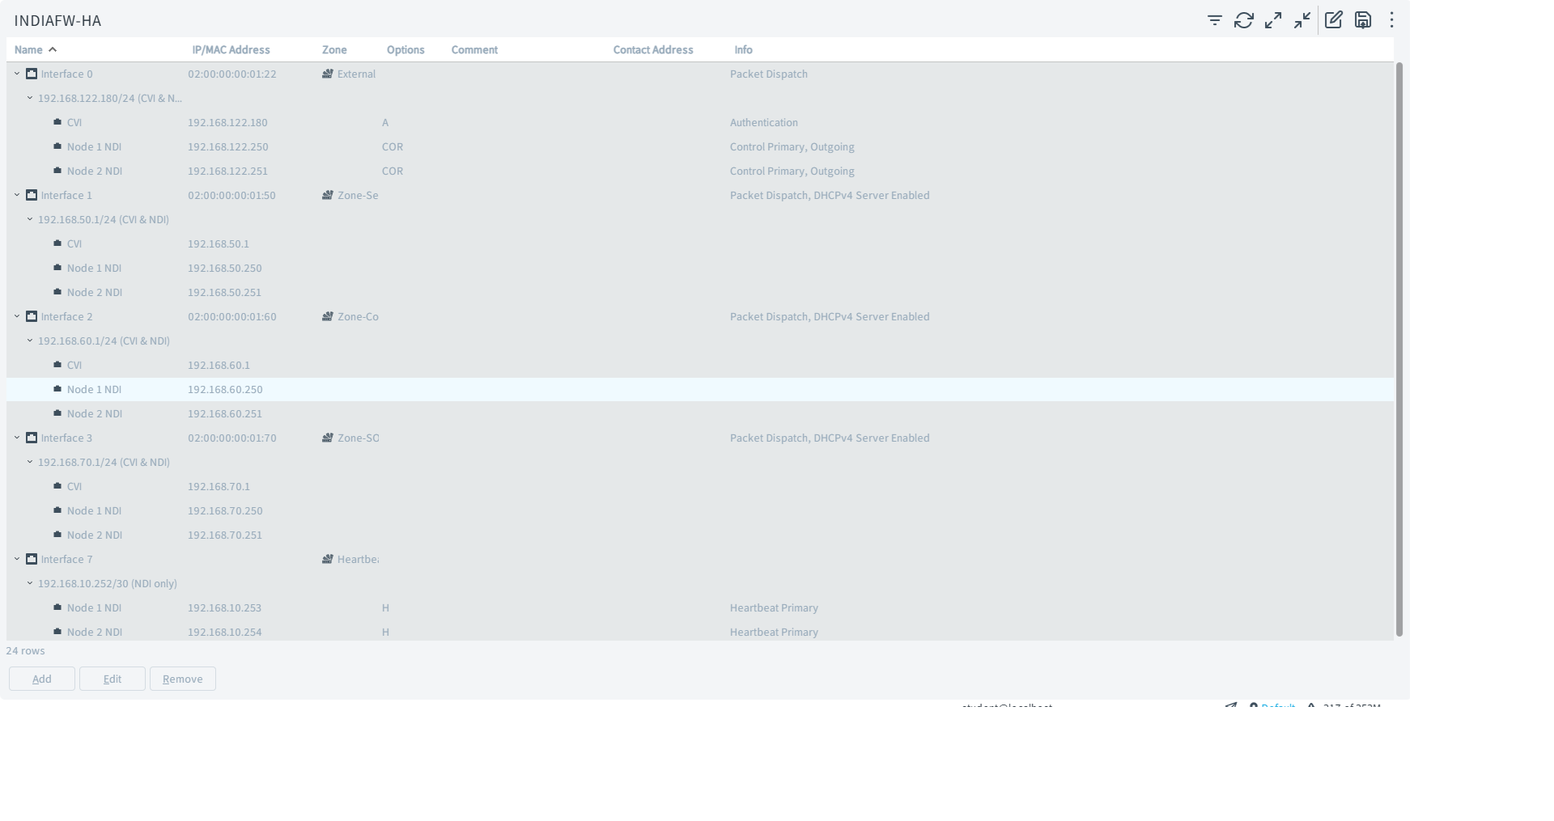
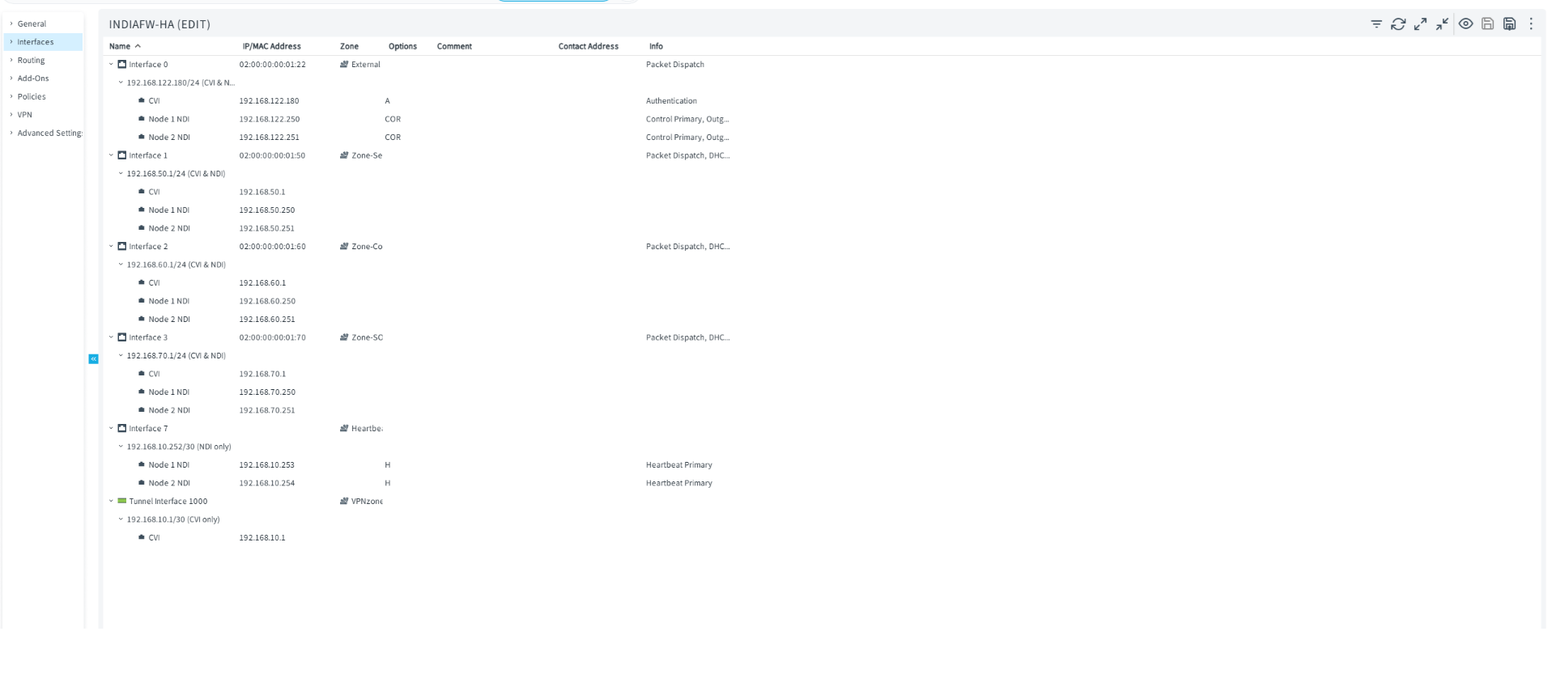
docs: USA branch migration to Forcepoint NGFW with VPN hardening & enhanced documentation
- Migrate USA branch firewall from FortiGate to standalone Forcepoint NGFW
- Implement native NGFW-to-NGFW route-based VPN (Suite-B-GCM-128 profile)
- Harden VPN configuration: PFS enabled, RSA cert auth, defense-in-depth policies
- Add comprehensive VPN validation: profile screenshots, gateway status, routing table, policy rules
- Document hardening changes: before/after comparison (IKEv1→IKEv2, PSK→cert auth, NAT fix)
- Reorganize repository structure: archive/fortigate-v1 for legacy config, usa-ngfw-vpn for screenshots
- Integrate USA NGFW screenshots into findings document with detailed explanations
- Add new HA cluster routing screenshot showing interface hierarchy
- Update README with current topology, tools, and testing methodology
- Preserve FortiGate v1 config as reference in archive (v1 → v2 migration documented)

New documentation:
- findings-usa-ngfw-migration.md: Full VPN design, hardening rationale, known limitations, lessons learned
- Enhanced README: Lab evolution phases, VPN hardening summary, repository structure

Screenshots added:
- 10 USA NGFW VPN configuration screenshots (profiles, gateways, routing, policies)
- 1 new HA cluster routing configuration screenshot
- Total: 15 USA-side screenshots + 4 HA-cluster screenshots organized in appropriate directories

diff --git a/README.md b/README.md
@@ -1,10 +1,19 @@
-# Enterprise Security Lab — Multi-Site Network with Layered Defense (GNS3)
+# Enterprise Security Lab — Multi-Site Network with Layered Defense (GNS3).
 
 ## Overview
 
 This lab simulates a two-site enterprise network (India HQ and USA branch) built in GNS3, designed to test and validate layered security controls across network, web, email, and data-loss-prevention layers. The goal was to model a realistic corporate environment — complete with a segmented internal network, dedicated security services zone, and a SOC — then actively test the effectiveness of those controls using reconnaissance and attack simulation techniques.
 
 **Why this lab:** Most home labs stop at "I set up a firewall." This one goes further — combining perimeter defense with true **HA clustering**, endpoint infrastructure, threat detection (XDR), and site-to-site connectivity, then validating the setup with real scans, forced-failover tests, and rule testing rather than just assuming it works.
+
+## Lab Evolution
+
+This lab is built iteratively, with each phase documented rather than overwritten:
+
+- **v1 — Initial build:** India HQ Forcepoint NGFW + USA branch FortiGate, connected via a cross-vendor IPsec site-to-site VPN.
+- **v2 — HA clustering:** India HQ NGFW upgraded to an Active-Standby cluster (NGFW-1/NGFW-2), validated with a forced-failover test. See [`notes/findings-ngfw-ha-cluster.md`](notes/findings-ngfw-ha-cluster.md).
+- **v3 — DLP-to-SIEM pipeline:** Forcepoint DLP incident/audit/system logs forwarded to Wazuh via custom CEF decoders and rules, with a live dashboard. See [`notes/forcepoint-dlp-wazuh-integration.md`](notes/forcepoint-dlp-wazuh-integration.md).
+- **v4 — Branch firewall migration (current):** The USA branch FortiGate was replaced with a second, standalone Forcepoint NGFW after the FortiGate evaluation license expired — used as an opportunity to move to a single-vendor, native NGFW-to-NGFW route-based VPN managed by the same SMC as the India cluster, rather than a cross-vendor IPsec link. Includes a full VPN hardening pass (PFS, certificate-based auth, scoped least-privilege access rules, defense-in-depth policy on both firewalls). See [`notes/findings-usa-ngfw-migration.md`](notes/findings-usa-ngfw-migration.md). The original FortiGate configuration is preserved, not deleted, at [`configs/USA-Branch/archive/fortigate-v1/`](configs/USA-Branch/archive/fortigate-v1/).
 
 ## Topology
 
@@ -16,7 +25,7 @@ This lab simulates a two-site enterprise network (India HQ and USA branch) built
   - Forcepoint Email Security Gateway
   - Forcepoint DLP — FSM + DLP Manager, DLP2, Analytics, Protector, FSM-SQL
 - **Corp-LAN Subnet** (`192.168.60.0/24`)
-  - Windows Server (AD, DNS, GPO)
+  - Windows Server (AD, DNS, GPO) — also hosts HMailServer
   - Windows 10 / Windows 11 client PCs, plus a non-domain test PC (negative-control testing)
   - TrueNAS (shared storage)
 - **SOC Subnet** (`192.168.70.0/24`)
@@ -25,9 +34,9 @@ This lab simulates a two-site enterprise network (India HQ and USA branch) built
 
 **USA (Branch Office)**
 
-- FortiGate firewall (USAFW), WAN `192.168.123.231`, via AT&T Fiber ISP
-- Site-to-Site VPN (IPSec) connecting the USA branch to India HQ, tunnel subnet `192.168.150.0/24`
-- SalesPC-USA endpoint
+- **Forcepoint NGFW (standalone)** — `USA_NGFW`, managed by the same SMC instance as the India HA cluster. WAN `192.168.123.180/24` (AT&T Fiber ISP), LAN `192.168.150.1/24`. Not clustered — a single branch sales endpoint doesn't justify HA complexity, unlike HQ.
+- **Site-to-Site VPN** — native Forcepoint NGFW-to-NGFW, route-based (SD-WAN), profile `Suite-B-GCM-128`: IKEv2, AES-GCM-128, DH Group 19, PFS enabled, RSA certificate authentication, always-on tunnel. Firewall policy on both ends is scoped and direction-aware rather than a shared ANY/ANY rule — see [`notes/findings-usa-ngfw-migration.md`](notes/findings-usa-ngfw-migration.md) for the full design and hardening writeup.
+- **SalesPC-USA** endpoint
 
 ![Network Topology](diagrams/topology.png)
 
@@ -45,13 +54,12 @@ This lab simulates a two-site enterprise network (India HQ and USA branch) built
 | Category | Tool |
 |---|---|
 | Network Emulation | GNS3 |
-| Firewall / NGFW | Forcepoint NGFW (Active-Standby cluster) |
-| Firewall Management | Forcepoint SMC |
+| Firewall / NGFW | Forcepoint NGFW (India: Active-Standby cluster; USA: standalone) |
+| Firewall Management | Forcepoint SMC (single instance, both sites) |
 | Web Security | Forcepoint Web Security Gateway |
 | Email Security | Forcepoint Email Security Gateway |
 | DLP | Forcepoint DLP (FSM, DLP Manager, Analytics, Protector) |
-| Branch Firewall | FortiGate |
-| Connectivity | Site-to-Site VPN (IPSec) |
+| Connectivity | Site-to-Site VPN (native NGFW-to-NGFW, route-based, IKEv2/AES-GCM-128) |
 | Directory Services | Windows Server (AD, DNS, GPO) |
 | Endpoints | Windows 10 / Windows 11 |
 | Storage | TrueNAS |
@@ -60,17 +68,28 @@ This lab simulates a two-site enterprise network (India HQ and USA branch) built
 
 ## Testing & Validation
 
-### Firewall Cluster (NGFW HA)
+### Firewall Cluster (NGFW HA) — India HQ
 
-- **Cluster Configuration** — Deployed Active-Standby architecture with CVI (Cluster Virtual IP) and NDI (Node Dedicated IP) per interface. Screenshots show SMC dashboard, interface hierarchy, and live policy rules in [`screenshots/ha-cluster/`](screenshots/ha-cluster/).
+- **Cluster Configuration** — Deployed Active-Standby architecture with CVI (Cluster Virtual IP) and NDI (Node Dedicated IP) per interface. Screenshots show SMC dashboard, interface hierarchy, routing configuration, and live policy rules in [`screenshots/ha-cluster/`](screenshots/ha-cluster/).
 - **External Reconnaissance** — Ran Nmap scans from a Kali Linux attacker position (via BhartiAirtel ISP) targeting the cluster WAN edge (192.168.122.180). Results: all ports return `filtered`, no service banners, no information leakage — confirming default-deny policy enforcement.
 - **Zone Segmentation Testing** — Blind scans from internal non-domain test PC (192.168.60.100) against Security Services (192.168.50.0/24), SOC (192.168.70.0/24), and other zones returned uniformly `filtered` responses — confirming bidirectional zone isolation and zero topology leakage.
 - **Failover Validation** — Forced failure of active node (NGFW-1) during continuous ping to cluster CVI. Measured results: automatic failover to NGFW-2 confirmed, ~3 packets lost / ~3 second outage, manual recovery via "Go Standby" verified correct per Forcepoint design. Full writeup in [`notes/findings-ngfw-ha-cluster.md`](notes/findings-ngfw-ha-cluster.md).
 
-### Firewall Rules & Policy
+### Firewall Rules & Policy — India HQ
 
 - **Policy Review** — Live screenshot of INDIAFW-HA firewall policy table showing zone-to-zone rules, VPN rules, heartbeat sync, and outbound policies. See [`configs/HQ/Firewall/firewall-rules-summary.md`](configs/HQ/Firewall/firewall-rules-summary.md) for detailed rule-by-rule breakdown.
-- **Site-to-Site VPN** — Verified IPSec tunnel between India HQ (Forcepoint NGFW) and USA branch (FortiGate) remains stable under sustained load. Configuration details in [`configs/USA-Branch/FortinetFW.md`](configs/USA-Branch/FortinetFW.md).
+
+### Site-to-Site VPN & USA Branch NGFW
+
+- **VPN Migration** — USA branch firewall was migrated from FortiGate (cross-vendor) to Forcepoint NGFW (single-vendor) to simplify management and improve interoperability. Original FortiGate config preserved in [`configs/USA-Branch/archive/fortigate-v1/FortinetFW.md`](configs/USA-Branch/archive/fortigate-v1/FortinetFW.md).
+- **VPN Design & Hardening** — Native Forcepoint NGFW-to-NGFW route-based (SD-WAN) tunnel using `Suite-B-GCM-128` profile:
+  - IKEv2 with AES-128 (IKE) + AES-GCM-128 (IPsec)
+  - PFS enabled (DH Group 19)
+  - RSA certificate-based authentication (not PSK)
+  - Always-on tunnel persistence
+  - NAT exemption for VPN traffic, ordered *before* dynamic-PAT rule (prevents a common misconfiguration)
+  - Defense-in-depth: both firewalls independently enforce least-privilege access rules; no shared ANY/ANY rule
+  - Screenshots show VPN profile (General/IKE/IPsec), gateways, routing table, and policy rules from both ends. Full design rationale, hardening comparison, and known limitations in [`notes/findings-usa-ngfw-migration.md`](notes/findings-usa-ngfw-migration.md).
 
 ### DLP & SIEM Integration
 
@@ -78,13 +97,16 @@ This lab simulates a two-site enterprise network (India HQ and USA branch) built
 - **Dashboard** — Live Wazuh dashboard ("Forcepoint DLP Overview") shows blocked vs. allowed incidents over time, policy categories, severity breakdown, and top source users. Screenshot in [`screenshots/wazuh-siem/`](screenshots/wazuh-siem/).
 - **Endpoint Visibility** — Wazuh manages six active agents across infrastructure and endpoints (FMSSRVR, DC1, DLP2, SQL, testpc3, TestPC-USA-01), providing centralized logging and threat detection. Agent status visible in SIEM dashboard.
 - **Known Issues & Fixes** — Documented eight non-obvious integration gotchas: TCP/UDP mismatch, reserved field name collisions, decoder chaining limits, field-name collapsing, timestamp mapping failures, rule group inheritance, and aggregation field selection. Full writeup in [`notes/forcepoint-dlp-wazuh-integration.md`](notes/forcepoint-dlp-wazuh-integration.md).
+- **Firewall-level Wazuh integration (India HA cluster and USA NGFW) is planned but not yet configured** — tracked as a future roadmap item; see [`notes/findings-usa-ngfw-migration.md`](notes/findings-usa-ngfw-migration.md).
 
 ## Repository Structure
 
 ```
 ├── README.md
+├── LICENSE
 ├── diagrams/
-│   └── topology.png
+│   ├── topology.png
+│   └── New_Topology.png
 ├── configs/
 │   ├── HQ/
 │   │   ├── Firewall/
@@ -95,17 +117,34 @@ This lab simulates a two-site enterprise network (India HQ and USA branch) built
 │   │       └── rules/
 │   │           └── forcepoint_dlp_rules.xml
 │   └── USA-Branch/
-│       └── fortigate/
+│       ├── forcepoint-ngfw/
+│       │   └── (USA NGFW config notes — see findings-usa-ngfw-migration.md)
+│       └── archive/
+│           └── fortigate-v1/
+│               └── FortinetFW.md (legacy FortiGate config, preserved for reference)
 ├── screenshots/
 │   ├── ha-cluster/
 │   │   ├── INDIAFW-HA_cluster_dashboard.png
 │   │   ├── INDIAFW-HA_cluster_interface_Config.png
+│   │   ├── INDIAFW-HA_cluster_interface_routing.png
 │   │   └── INDIAFW-HA_cluster_Policy_rule.png
+│   ├── usa-ngfw-vpn/
+│   │   ├── INDIAHA-VPN_Policy.png
+│   │   ├── Route-Based-VPN.png
+│   │   ├── USA_NGFW_Interfaces.png
+│   │   ├── USA_NGFW_NAT_Policy_rules.png
+│   │   ├── USA_NGFW_routing.png
+│   │   ├── USA_NGFW_VPN_Policy_rules.png
+│   │   ├── VPN_gateways.png
+│   │   ├── VPN_profile_General.png
+│   │   ├── VPN_profile_IKE_SA.png
+│   │   └── VPN_profile_IPsec_SA.png
 │   └── wazuh-siem/
 │       ├── forcepoint_DLP_Wazuh_dashboard.png
 │       └── WazuhDashboard.PNG
 └── notes/
     ├── findings-ngfw-ha-cluster.md
+    ├── findings-usa-ngfw-migration.md
     └── forcepoint-dlp-wazuh-integration.md
 ```
 
@@ -114,8 +153,10 @@ This lab simulates a two-site enterprise network (India HQ and USA branch) built
 - [ ] Add a Backup Heartbeat interface for the NGFW cluster (currently only Primary exists) for full redundancy of the sync path itself
 - [ ] Re-point the site-to-site IPSec VPN to terminate on the cluster CVI rather than a node's physical IP, so the VPN doesn't become the remaining single point of failure
 - [ ] Feed cluster failover/health events into Wazuh SIEM so failover events are logged and alertable
-- [ ] Document a dual-WAN uplink design, since firewall HA alone doesn't protect against an ISP-side outage
+- [ ] Document a dual-WAN uplink design for the India HQ edge, since firewall HA alone doesn't protect against an ISP-side outage
 - [x] DLP-to-SIEM pipeline complete (decoders, rules, dashboard) — see `notes/forcepoint-dlp-wazuh-integration.md`
+- [x] USA branch migrated from FortiGate to a native Forcepoint NGFW-to-NGFW site-to-site VPN, with a full hardening pass (PFS, certificate auth, scoped least-privilege policy) — see `notes/findings-usa-ngfw-migration.md`
+- [ ] Extend Wazuh integration to firewall-level logs for both the India HA cluster and the USA NGFW
 - [ ] Add SIEM correlation rules for lateral movement
 - [ ] Test DLP with sample exfiltration attempts (alerting pipeline now in place to make this measurable)
 - [ ] SOC investigation / incident response exercise

diff --git a/notes/findings-usa-ngfw-migration.md b/notes/findings-usa-ngfw-migration.md
@@ -1,0 +1,168 @@
+# Findings: USA Branch Migration to Forcepoint NGFW & Site-to-Site VPN Hardening
+
+## Context
+
+The USA branch firewall was originally a FortiGate, connected to the India HQ Forcepoint NGFW HA cluster via a cross-vendor IPsec site-to-site VPN. When the FortiGate evaluation license expired, this was used as an opportunity to re-architect the branch toward a single-vendor design: a standalone Forcepoint NGFW at the USA site, managed by the same SMC instance as the India HA cluster, connected via a native NGFW-to-NGFW route-based VPN.
+
+This document covers the migration, the VPN design decisions, the firewall policy hardening applied on both ends, and what was deliberately left out of scope.
+
+## Topology (current state)
+
+**India HQ** — unchanged: Forcepoint NGFW HA cluster (NGFW-1/NGFW-2, Active-Standby), Security Services subnet (Web Proxy x2, Email Security, DLP stack), Corp-LAN (DC1, Windows clients, TrueNAS), SOC (Wazuh).
+
+**USA Branch** — new: standalone Forcepoint NGFW (`USA_NGFW`)
+- WAN: 192.168.123.180/24 (AT&T Fiber ISP)
+- LAN: 192.168.150.1/24 (`USA-site-Internal`)
+- Single endpoint on the LAN: SalesPC-USA
+- Not clustered — a single branch sales endpoint doesn't justify the complexity/cost of HA, unlike HQ where DLP, email security, and multiple subnets are in play
+
+**Management**: one SMC instance manages both the India HA cluster and the USA NGFW — not a separate, siloed SMC per site.
+
+## VPN Design
+
+- **Type**: Route-based VPN (SD-WAN → Policy-Based VPNs / Route-Based VPN Tunnels), not classic policy-based VPN. Each side has a Tunnel Interface (USA: `Tunnel Interface 1000`, 192.168.10.2/30) with the three India subnets (Corp, Security-Service, SOC) reachable via the tunnel in the routing table.
+- **Profile**: `Suite-B-GCM-128`
+  - IKEv2 only (IKEv1 explicitly disabled — no legacy downgrade path)
+  - Cipher: AES-128 (IKE) / AES-GCM-128 (IPsec) — AEAD, no separate MAC needed for IPsec SA
+  - DH Group 19 (ECP 256-bit) for both IKE and PFS
+  - **PFS enabled** (DH 19) — matches the IKE group
+  - **Authentication: RSA Signatures** (switched from an initial PSK configuration) — both gateways have Automated Certificate Management enabled with valid certs, so cert-based mutual auth is actually in use rather than certs being provisioned but unused
+  - **Always Keep Tunnels Established**: enabled — the branch link behaves as an always-on connection rather than interest-traffic-triggered
+- **NAT**: VPN-destined traffic (USA-site-Internal ↔ India subnets) is explicitly exempted from NAT, and that exemption rule is ordered *before* the general outbound dynamic-PAT rule — the single most common site-to-site VPN misconfiguration (traffic getting NAT'd before it reaches the tunnel) is avoided here.
+- **Validation**: both VPN gateways show Status: Online with valid certificates; routes to all three India subnets are present in the USA NGFW's routing table via the tunnel interface; traffic has been confirmed flowing in both directions.
+
+### VPN Configuration Screenshots
+
+**VPN Profile Configuration** — Shows the `Suite-B-GCM-128` profile with all security settings:
+
+![VPN Profile - General Settings](../screenshots/usa-ngfw-vpn/VPN_profile_General.png)
+
+The General tab confirms:
+- Always-on tunnel (Connection Persistence)
+- IKEv2 enabled with negotiation priority settings
+- Certificate-based authentication (RSA, not PSK)
+
+![VPN Profile - IKE SA (Phase 1)](../screenshots/usa-ngfw-vpn/VPN_profile_IKE_SA.png)
+
+IKE Security Association parameters:
+- DH Group 19 (ECP 256-bit) for both IKE and PFS
+- AES-128 encryption + SHA-256 hash for Phase 1
+- Lifetime and rekeying settings
+
+![VPN Profile - IPsec SA (Phase 2)](../screenshots/usa-ngfw-vpn/VPN_profile_IPsec_SA.png)
+
+IPsec Security Association parameters:
+- AES-GCM-128 (authenticated encryption — AEAD mode, no separate MAC)
+- DH Group 19 for Perfect Forward Secrecy
+- Tunnel mode (not transport mode)
+
+**VPN Gateway Configuration** — Shows both the India HQ and USA gateways:
+
+![VPN Gateways - Status](../screenshots/usa-ngfw-vpn/VPN_gateways.png)
+
+Both gateways are shown as **Online** with:
+- Valid RSA certificates (not self-signed, auto-managed by Automated Certificate Management)
+- Matching Suite-B-GCM-128 profile
+- Tunnel interface IPs assigned
+
+**Route-Based VPN Tunnel Interface** — Shows how the tunnel is configured as a network interface rather than embedded in a policy:
+
+![Route-Based VPN Tunnel Configuration](../screenshots/usa-ngfw-vpn/Route-Based-VPN.png)
+
+The tunnel interface (1000) is assigned:
+- Local IP: 192.168.10.2/30
+- Remote IP: 192.168.10.1/30 (India HQ)
+- Protocol: IPsec
+- Bound to the Suite-B-GCM-128 profile
+- Route-based forwarding: traffic destined for the remote India subnets is routed *through* this tunnel interface rather than being policy-matched
+
+## Firewall Policy Design — Defense in Depth, Direction-Aware
+
+Rather than a single symmetric ANY/ANY rule shared across both firewalls, each firewall enforces its own half of the relationship independently. Traffic crosses both firewalls on its way between sites, so each one is treated as an independent enforcement point rather than trusting "it came through the VPN tunnel" as sufficient.
+
+### USA NGFW Interface & Routing Configuration
+
+**USA NGFW Interfaces** — Shows the physical and tunnel interfaces:
+
+![USA NGFW - Network Interfaces](../screenshots/usa-ngfw-vpn/USA_NGFW_Interfaces.png)
+
+Configuration:
+- **Interface 0 (WAN)**: 192.168.123.180/24 — connects to AT&T Fiber ISP, public-facing
+- **Interface 1 (LAN)**: 192.168.150.1/24 — connects to USA-site-Internal, where SalesPC-USA resides
+- **Tunnel Interface 1000**: 192.168.10.2/30 — route-based VPN tunnel to India HQ, assigned to Suite-B-GCM-128 profile
+
+**USA NGFW Routing Table** — Shows how traffic is routed to India subnets via the VPN tunnel:
+
+![USA NGFW - Routing Table](../screenshots/usa-ngfw-vpn/USA_NGFW_routing.png)
+
+Critical routes:
+- 192.168.60.0/24 (HQ Corp-LAN) → via Tunnel Interface 1000
+- 192.168.50.0/24 (HQ Security Services) → via Tunnel Interface 1000
+- 192.168.70.0/24 (HQ SOC) → via Tunnel Interface 1000
+- 0.0.0.0/0 (Default route) → via Interface 0 (WAN), AT&T ISP gateway
+
+This routing design ensures India-destined traffic *must* traverse the tunnel (no accidental direct routes), while local internet breakout uses the WAN interface.
+
+### Branch → HQ (SalesPC-USA initiating)
+
+Enforced on **both** `USA_NGFW` (primary, closest to source) and `INDIAFW-HA` (secondary, protecting HQ assets independently):
+
+| Destination | Services allowed | Rationale |
+|---|---|---|
+| DC1 | AD-Auth group (DNS, Kerberos, Kerberos Administration, Kerberos IV, LDAP/LDAPS, Global Catalog LDAP/LDAPS, Microsoft-DS, MSRPC Endpoint Mapper, NTP), SMTP | Domain join, authentication, GPO, time sync. SMTP included because HMailServer runs on DC1 itself — not a stray rule, this is the actual mail service location. |
+| DLP-EndpointServers | HTTP, HTTPS, Microsoft-DS | DLP endpoint agent communication |
+| Wazuh | Wazuh, Wazuh2 (custom service objects) | Reserved for when the Wazuh agent is deployed to SalesPC-USA — not yet active, see Known Limitations |
+
+### HQ → Branch (zero standing access — deliberate)
+
+No rule currently permits HQ-initiated traffic (e.g., RDP/WinRM for remote admin) into USA-site-Internal. This is an intentional design decision, not an oversight: there's no current operational need for HQ to initiate connections into the branch endpoint, so no standing rule exists for it. If remote administration of SalesPC-USA is needed in the future, a narrowly scoped rule (specific admin source, RDP or WinRM only, logged) will be added at that time rather than restoring a blanket allow.
+
+### USA NGFW Policy Rules — Screenshots
+
+**VPN Policy Rules (Branch → HQ)** — Shows the access control list for traffic flowing from SalesPC-USA to India HQ resources:
+
+![USA NGFW - VPN Policy Rules](../screenshots/usa-ngfw-vpn/USA_NGFW_VPN%20Policy_rules.png)
+
+Each rule is logged and scoped to specific services (DNS, Kerberos, LDAP, HTTP/HTTPS, etc.), not blanket ANY/ANY.
+
+**NAT Policy Rules** — Shows the NAT exemption for VPN traffic, positioned *before* the default dynamic-PAT rule:
+
+![USA NGFW - NAT Policy Rules](../screenshots/usa-ngfw-vpn/USA_NGFW_NAT_Policy_rules.png)
+
+Critical detail: The "No NAT for VPN" rule (exempting 192.168.150.0/24 ↔ 192.168.150.0/24 — India subnets) appears *first* in the NAT policy, ensuring VPN traffic never gets source-NAT'd to the USA NGFW's public IP. If this rule were ordered *after* the dynamic-PAT rule, VPN traffic would be NAT'd and the tunnel would fail.
+
+**India HQ VPN Policy** — For comparison, the India-side policy showing how the reverse direction is independently enforced:
+
+![India HQ - VPN Policy (receiving branch traffic)](../screenshots/usa-ngfw-vpn/INDIAHA-VPN%20Policy.png)
+
+The India cluster enforces its own set of allow rules for USA-bound traffic, rather than blindly allowing everything that comes through the tunnel.
+
+### Logging
+
+The top-level "Continue" rule on both firewalls was configured with logging overrides (Log Level: Stored, Connection Closing: Log Accounting Information, Network Applications: Enforced), which cascades to the Allow rules beneath it in that section — rather than configuring logging per individual rule.
+
+## Hardening Changes Made (Before → After)
+
+| Area | Before | After |
+|---|---|---|
+| PFS | Disabled | Enabled, DH Group 19 |
+| VPN authentication | Pre-Shared Key (certs provisioned but unused) | RSA Signatures |
+| VPN access rules | ANY/ANY across both directions, all three HQ subnets exposed | Scoped by destination and service on both firewalls; zero standing HQ→branch access |
+| Logging | Not configured on VPN/access rules | Enabled via section-level override, cascading to child rules |
+| Tunnel persistence | Interest-traffic-triggered | Always Keep Tunnels Established |
+| Naming | `USA_NGFW` (engine) vs `USA-NGFW` (policy) inconsistency | *(tracking — cosmetic, low priority)* |
+
+## Known Limitations / Accepted Risk
+
+- **RPC dynamic high-port range not explicitly allowed.** The AD-Auth group includes the MSRPC Endpoint Mapper (TCP), which resolves *where* an RPC service lives, but no corresponding high-port range (or a static RPC port configured on DC1) is present to allow the actual follow-up connection. In testing, all observed functionality (domain auth, DNS, LDAP, GPO, time sync) works correctly without it. This is being left as-is for now rather than opening a wide ephemeral port range or doing the additional work to pin RPC to a static range on DC1 — documented here as a conscious trade-off rather than an unexamined gap. Candidate for future hardening if more complex AD/RPC-dependent functionality is added to the lab.
+
+## Future Roadmap
+
+- **Wazuh integration for both firewalls.** The `Wazuh`/`Wazuh2` service rules already exist in the policy in preparation, but no agent is yet deployed to SalesPC-USA and no firewall log forwarding to Wazuh is active for either site. Planned as the next phase of SOC visibility work, extending the existing DLP-to-Wazuh pipeline to cover firewall-level events from both the India HA cluster and the USA NGFW.
+
+## Lessons Learned
+
+- A single-vendor NGFW-to-NGFW VPN removes an entire class of cross-vendor IPsec interop troubleshooting (cipher suite negotiation mismatches, vendor-specific quirks) that exists with mixed-vendor site-to-site links — at the cost of losing the multi-vendor experience that configuration provided.
+- Defense-in-depth is only meaningfully different from a single shared rule set when each firewall is actually configured to independently restrict traffic to what *it* needs to protect, rather than mirroring the same broad rule on both ends.
+- Zero standing access in the less-necessary direction (HQ→branch, in this case) is a stronger default than a broad allow rule "just in case" — access can be added on demand, scoped to the specific need, when it's actually required.
+- Validating a VPN profile against its own name (e.g., confirming a "Suite-B" profile actually has PFS enabled) surfaced a real gap that wasn't obvious from the tunnel simply being up and passing traffic — "working" and "correctly configured" aren't the same validation.
